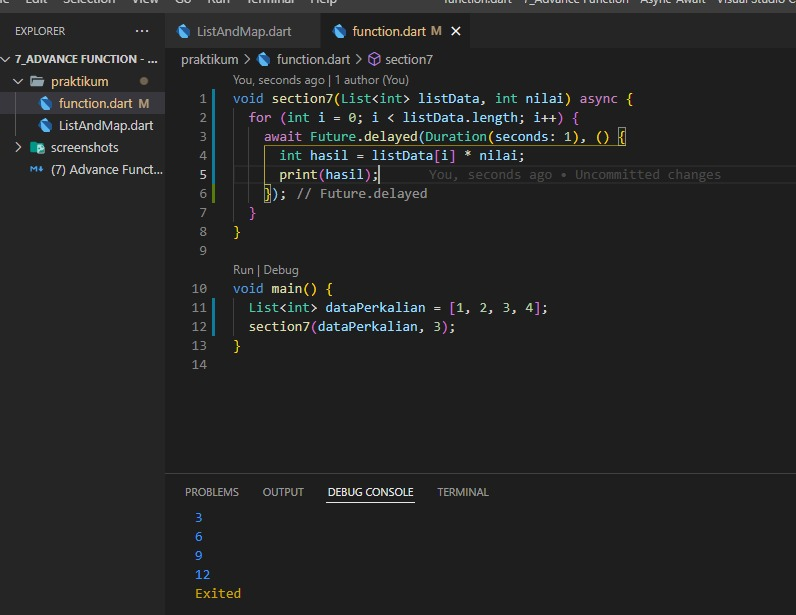
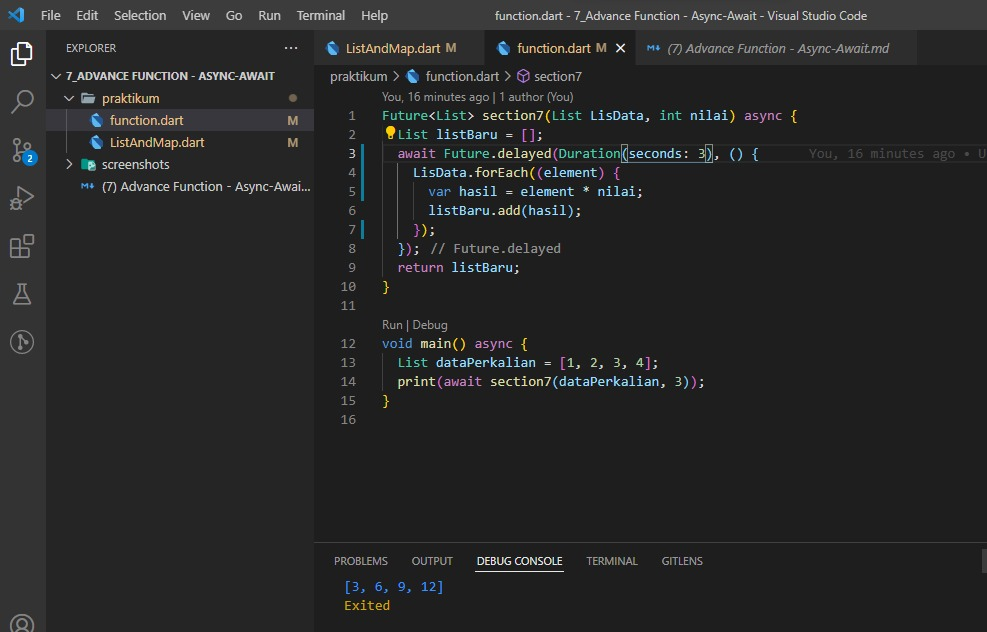
update section 8

diff --git a/8_Collection/praktikum/function.dart b/8_Collection/praktikum/function.dart
@@ -1,13 +1,15 @@
-void section7(List<int> listData, int nilai) async {
-  for (int i = 0; i < listData.length; i++) {
-    await Future.delayed(Duration(seconds: 1), () {
-      int hasil = listData[i] * nilai;
-      print(hasil);
+Future<List> section7(List LisData, int nilai) async {
+  List listBaru = [];
+  await Future.delayed(Duration(seconds: 3), () {
+    LisData.forEach((element) {
+      var hasil = element * nilai;
+      listBaru.add(hasil);
     });
-  }
+  });
+  return listBaru;
 }
 
-void main() {
-  List<int> dataPerkalian = [1, 2, 3, 4];
-  section7(dataPerkalian, 3);
+void main() async {
+  List dataPerkalian = [1, 2, 3, 4];
+  print(await section7(dataPerkalian, 3));
 }

diff --git a/8_Collection/praktikum/ListAndMap.dart b/8_Collection/praktikum/ListAndMap.dart
@@ -1,23 +1,22 @@
 void main() {
   // List hewan yang berisi nama-nama hesan
-  var hewan = [
+  var name = [
     [
-      'anjing',
-      'ayam',
+      'akil',
+      12,
     ],
-    ['semut', 'ular'],
+    ['udin', 14],
+    ['ucup', 14],
   ];
 
 // Map nameHewan yang isi key tersebut dari list
-  var nameHewan = {
-    'hewan1': hewan[0][1],
-    'hewan2': hewan[0][0],
-    'hewan3': hewan[1][0],
-    'hewan4': hewan[1][1],
-  };
+  var mapName = {};
 
-  //Perulangan untuk menampilkan MAP
-  for (var key in nameHewan.keys) {
-    print(nameHewan[key]);
+  for (var i in name) {
+    for (var p in i) {
+      mapName[i[0]] = p;
+    }
   }
+
+  print(mapName);
 }
